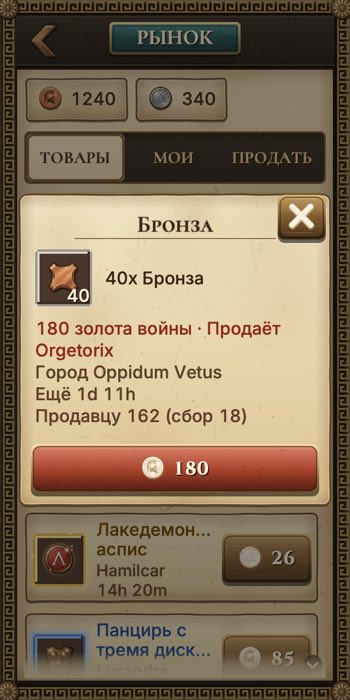
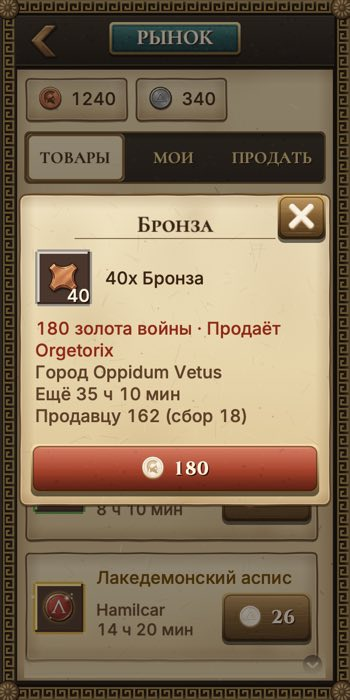
fix(market): item names never cut, localized time left (MKT-01)
A name that does not fit beside the price button spans the row and wraps;
the facts go under it. Time left uses fmtDuration (ru: ч, мин).

Changed region(s): [[0.0571, 0.72, 0.9143, 0.96], [0.2286, 0.54, 0.5143, 0.57]]

diff --git a/src/scenes/MarketScene.ts b/src/scenes/MarketScene.ts
@@ -24,6 +24,7 @@ import { ITEM_LIST, isBound, itemValue, normalizeItem, type Item } from '../data
 import { CONSUMABLES, CONSUMABLE_IDS, type ConsumableId } from '../data/consumables';
 import { hapticNotify } from '../platform/telegram';
 import { resolveBack } from '../platform/nav';
+import { fmtDuration } from '../util/format';
 import { uiCoin } from '../audio/hooks';
 import { state } from '../state';
 import { t, tOr, type TKey } from '../i18n';
@@ -49,25 +50,35 @@ const ROW_TX = 33;
 const NAME_LH = 9;
 const SUB_LH = 8.5;
 
-/** A list row's text: the name in at most two lines (M-12), then the facts, joined on one line or one per line. */
-type RowText = { name: string[]; sub: string[] };
+/**
+ * A list row's text. Compact: the name on one line beside the right-hand control, the facts under it.
+ * Stacked (a name that does not fit there): the name across the row's full width in as many lines as it
+ * takes, then the facts beside the control. A name is never cut (only a single word wider than the row).
+ */
+type RowText = { stacked: boolean; name: string[]; sub: string[]; h: number };
 
-/** Lay out a row's text: no fact is cut while it fits on a line of its own (G14); only a longer name's second line is cut. */
-function rowText(name: string, font: FontKey, facts: string[], nameW: number, subW: number): RowText {
-  const ls = wrapWords(name, nameW, (x) => mw(x, font));
-  const nm = (ls.length > 2 ? [ls[0], ls.slice(1).join(' ')] : ls).map((l) => fit(l, font, 7, nameW));
+/** Height of the right-hand control (price button, Cancel listing). */
+const SIDE_H = 24;
+
+/**
+ * Lay out a row's text: `beside` is the text width next to the right-hand control, `full` the width across
+ * the row. The facts share a line when they fit, else take one line each (G14).
+ */
+function rowText(name: string, font: FontKey, facts: string[], beside: number, full: number, stackedSubW = beside, compactSubW = beside): RowText {
   const joined = facts.join(' · ');
-  const sub = mw(joined, 'pSec', TEXT_MIN) <= subW ? [joined] : facts.map((f) => fit(f, 'pSec', TEXT_MIN, subW));
-  return { name: nm, sub };
+  const subOf = (w: number) => (mw(joined, 'pSec', TEXT_MIN) <= w ? [joined] : facts.map((f) => fit(f, 'pSec', TEXT_MIN, w)));
+  if (mw(name, font) <= beside && mw(joined, 'pSec', TEXT_MIN) <= compactSubW) return { stacked: false, name: [name], sub: [joined], h: Math.max(32, Math.ceil(NAME_LH + SUB_LH + 8)) };
+  const nm = wrapWords(name, full, (x) => mw(x, font)).map((l) => fit(l, font, 7, full));
+  const sub = subOf(stackedSubW);
+  return { stacked: true, name: nm, sub, h: Math.ceil(4 + nm.length * NAME_LH + 2 + Math.max(SIDE_H, sub.length * SUB_LH) + 4) };
 }
 
-function textHeight(rt: RowText): number {
-  return rt.name.length * NAME_LH + rt.sub.length * SUB_LH;
-}
-
-/** Row height for its text: 32 UI px (P9 with art), taller when a name or the facts take two lines. */
-function rowHeight(rt: RowText): number {
-  return Math.max(32, Math.ceil(textHeight(rt) + 8));
+/** Where a row's lower block (the facts and the right-hand control) starts and how tall it is, in a row `rh` tall. */
+function lowBlock(rt: RowText, rh: number): { top: number; h: number } {
+  if (!rt.stacked) return { top: 0, h: rh };
+  const off = Math.floor((rh - rt.h) / 2);
+  const top = off + 4 + rt.name.length * NAME_LH + 2;
+  return { top, h: Math.max(SIDE_H, rt.sub.length * SUB_LH) };
 }
 
 interface MarketData {
@@ -321,7 +332,8 @@ export class MarketScene extends BaseScene {
     const now = Date.now();
     const list = new ScrollList(this, this.page, x0, y, w, h, {
       count: rows,
-      rowH: Math.max(...this.listings.map((l) => rowHeight(this.browseRow(b, l, w, now).text))),
+      // ScrollList renders rows `w - 3` wide
+      rowH: Math.max(...this.listings.map((l) => this.browseRow(b, l, w - 3, now).text.h)),
       fade: MOSAIC.parch,
       render: (i, row, rw, rh, area) => {
         if (i === this.listings.length) {
@@ -421,10 +433,9 @@ export class MarketScene extends BaseScene {
     const ended = act === 'none';
     const label = ended ? t('market.expired') : `${l.price}`;
     const bw = Math.min(ended ? 64 : 56, Math.max(40, mw(label, 'rCream', 7) + ICON_W + 14));
-    const tw = rw - ROW_TX - bw - 8;
     const font = l.kind === 'item' ? rarityInk(this, l.rarity) : 'pInk';
     const left = timeLeft(l.expiresAt, now);
-    const text = rowText(`${l.qty > 1 ? `${l.qty}x ` : ''}${this.listingName(l)}`, font, [l.seller.name ?? '?', ended ? priceText(l.price, l.currency) : left.text], tw, tw);
+    const text = rowText(`${l.qty > 1 ? `${l.qty}x ` : ''}${this.listingName(l)}`, font, [l.seller.name ?? '?', ended ? priceText(l.price, l.currency) : fmtDuration(left.ms)], rw - ROW_TX - bw - 8, rw - ROW_TX - 4);
     return { act, can, label, bw, font, text };
   }
 
@@ -432,7 +443,8 @@ export class MarketScene extends BaseScene {
     row.add(mosaicImage(this, 0, 0, rw, rh, l.mine ? 'parchmentWell' : 'parchment'));
     row.add(new ItemIcon(this, 4, Math.round((rh - 24) / 2), this.subject(l), { size: 24, area, qty: l.qty, rarity: l.kind === 'item' ? undefined : 'common', onTap: () => this.openListing(b, l) }));
     const { act, can, label, bw, font, text } = this.browseRow(b, l, rw, now);
-    const pb = new MButton(this, rw - bw - 3, Math.round((rh - 24) / 2), bw, 24, act === 'none'
+    const low = lowBlock(text, rh);
+    const pb = new MButton(this, rw - bw - 3, Math.round(low.top + (low.h - SIDE_H) / 2), bw, SIDE_H, act === 'none'
       ? { label, variant: 'disabled', disabledReason: t('market.expiredHint'), id: 'market.price' }
       : { label, icon: currencyIcon(l.currency), variant: 'secondary', id: 'market.price', onClick: () => this.openListing(b, l) });
     if (act === 'buy' && !can) pb.setEnabled(false, t('econ.noFunds'));
@@ -440,13 +452,18 @@ export class MarketScene extends BaseScene {
     this.drawRowText(row, rw, rh, text, font);
   }
 
-  /** The name lines and sub-lines of a row, centred in its height. */
+  /** The name lines and fact lines of a row: centred (compact), or the name on top and the facts centred in the lower block. */
   private drawRowText(row: Phaser.GameObjects.Container, rw: number, rh: number, rt: RowText, font: FontKey): void {
     const box = { owner: row, w: rw, h: rh };
-    let y = Math.round((rh - textHeight(rt)) / 2);
+    const subH = rt.sub.length * SUB_LH;
+    let y = rt.stacked ? Math.floor((rh - rt.h) / 2) + 4 : Math.round((rh - rt.name.length * NAME_LH - subH) / 2);
     for (const line of rt.name) {
       row.add(mtext(this, ROW_TX, y, line, font, { box }));
       y += NAME_LH;
+    }
+    if (rt.stacked) {
+      const low = lowBlock(rt, rh);
+      y = Math.round(low.top + (low.h - subH) / 2) - 1;
     }
     for (const line of rt.sub) {
       row.add(mtext(this, ROW_TX, y + 1, line, 'pSec', { size: TEXT_MIN, box }));
@@ -475,7 +492,7 @@ export class MarketScene extends BaseScene {
     const notes: Note[] = [
       { text: `${priceText(l.price, l.currency)} · ${t('market.by', { name: l.seller.name ?? '?' })}`, font: 'red' },
       { text: t('market.town', { name: l.town.name }) },
-      { text: left.ms ? t('market.left', { t: left.text }) : t('market.expired') },
+      { text: left.ms ? t('market.left', { t: fmtDuration(left.ms) }) : t('market.expired') },
       { text: t('market.feeLine', { gets: sellerGets(l.price, b.cat.market.feeRate), fee: marketFee(l.price, b.cat.market.feeRate) }) },
     ];
     const can = canAfford(l, { gold: b.profile?.resources.gold ?? null, drachmae: b.wallet.drachmae });
@@ -648,20 +665,25 @@ export class MarketScene extends BaseScene {
       const stF = statusFont[status] ?? 'pOff';
       const stW = Math.min(60, mw(stT, stF, TEXT_MIN));
       const font = l.kind === 'item' ? rarityInk(this, l.rarity) : 'pInk';
-      const text = rowText(`${l.qty > 1 ? `${l.qty}x ` : ''}${this.listingName(l)}`, font, [priceText(l.price, l.currency), t('market.youGet', { n: sellerGets(l.price, b.cat.market.feeRate) })], right - stW - 4 - ROW_TX, right - ROW_TX);
+      const facts = [priceText(l.price, l.currency), t('market.youGet', { n: sellerGets(l.price, b.cat.market.feeRate) })];
+      const name = `${l.qty > 1 ? `${l.qty}x ` : ''}${this.listingName(l)}`;
+      // the status sits at the end of the name's first line; the facts take the width left of the Cancel listing button
+      const text = rowText(name, font, facts, right - stW - 4 - ROW_TX, rw - ROW_TX - 8 - stW, right - ROW_TX, right - ROW_TX);
       return { status, act, bw, right, stT, stF, font, text };
     };
     const list = new ScrollList(this, this.page, x0, y, w, h, {
       count: mine.listings.length,
-      rowH: Math.max(...mine.listings.map((l) => rowHeight(lay(l, w).text))),
+      rowH: Math.max(...mine.listings.map((l) => lay(l, w - 3).text.h)),
       fade: MOSAIC.parch,
       render: (i, row, rw, rh, area) => {
         const l = mine.listings[i];
         const { status, act, bw, right, stT, stF, font, text } = lay(l, rw);
         row.add(mosaicImage(this, 0, 0, rw, rh, status === 'open' ? 'parchment' : 'parchmentWell'));
         row.add(new ItemIcon(this, 4, Math.round((rh - 24) / 2), this.subject(l), { size: 24, area, qty: l.qty, onTap: () => this.openListing(b, l) }));
-        if (act === 'cancel') row.add(this.clearButton(rw - bw - 3, Math.round((rh - FILTER_H) / 2), () => this.askCancel(l), 'market.cancelRow', t('market.cancelListing')));
-        row.add(mtext(this, right, Math.round((rh - textHeight(text)) / 2), stT, stF, { size: TEXT_MIN, align: 1, maxW: 60, box: { owner: row, w: rw, h: rh } }));
+        const low = lowBlock(text, rh);
+        if (act === 'cancel') row.add(this.clearButton(rw - bw - 3, Math.round(low.top + (low.h - FILTER_H) / 2), () => this.askCancel(l), 'market.cancelRow', t('market.cancelListing')));
+        const stY = text.stacked ? Math.floor((rh - text.h) / 2) + 4 : Math.round((rh - NAME_LH - SUB_LH) / 2);
+        row.add(mtext(this, text.stacked ? rw - 4 : right, stY, stT, stF, { size: TEXT_MIN, align: 1, maxW: 60, box: { owner: row, w: rw, h: rh } }));
         this.drawRowText(row, rw, rh, text, font);
       },
     });

diff --git a/docs/v5/stories/MKT-01/NOTES.md b/docs/v5/stories/MKT-01/NOTES.md
@@ -7,7 +7,8 @@ Spec: [screens-modes.md](../../../../design/ux/screens-modes.md) M-12, [interact
 - **Back (AC2).** `leave()` uses `resolveBack('Market', origin)`: the screen that opened it (War army, a stash item, the Shop card once SHP-01 adds it), else the **Shop hub** (N4). Before, no origin went to the War hub.
 - **Browse filters (MKT-2, P8).** Kind, Currency and Sort name their value with an icon. A tap opens a docked option sheet listing every value; the one in force is lit with a ✓. Two columns while every label keeps its icon, else one.
 - **Expired listings (MKT-1).** An ended listing shows a disabled **Expired** button (lock, grey stone) whose tap says why. Its price moves to the sub-line. A live listing keeps its price button.
-- **Rows (V5-060, G14).** All text is 6.5 UI px or more. A name takes up to two lines (M-12 "item name 2 lines"). The facts (seller and time left; price and "you get") share a line when they fit, else take one line each, so none is cut. Rows grow from 32 to fit.
+- **Rows (V5-060, G14).** All text is 6.5 UI px or more. A name that does not fit beside the price button takes the full row width, in as many lines as it needs, and is never cut. The facts (seller and time left; price and "you get") go under it, beside the button. They share a line when they fit, else take one line each. Rows grow from 32 to fit.
+- **Time left is localized** (`fmtDuration`: "14 ч 20 мин"), in the rows and on the goods card.
 - **Listing card.** Goods use a kit parchment sheet: icon, name, description, notes, Buy (primary) or Cancel listing, X only (G5). Items keep the shared item card (`sheet.ts`). Notes are one fact per line, wrapped, never cut.
 - **Confirms.** Buy and Cancel listing stay `confirmDialog` (the kit's confirm overlay). **Withdraw is renamed Cancel listing** (ia.md §5).
 - **Sell form (MKT-3, MKT-5).** A parchment sheet laid out from its own body width. It shows:
